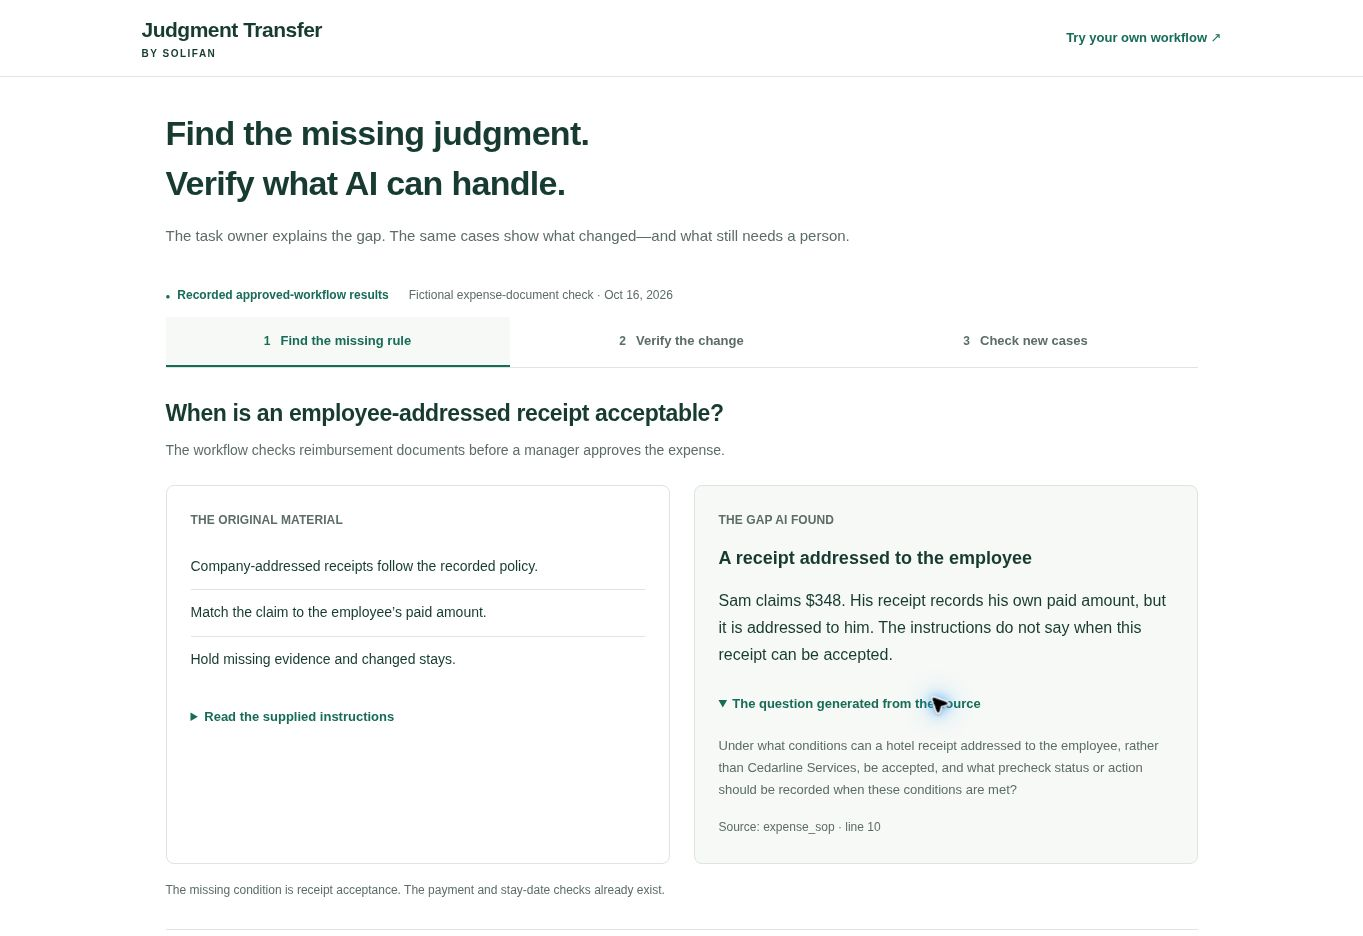
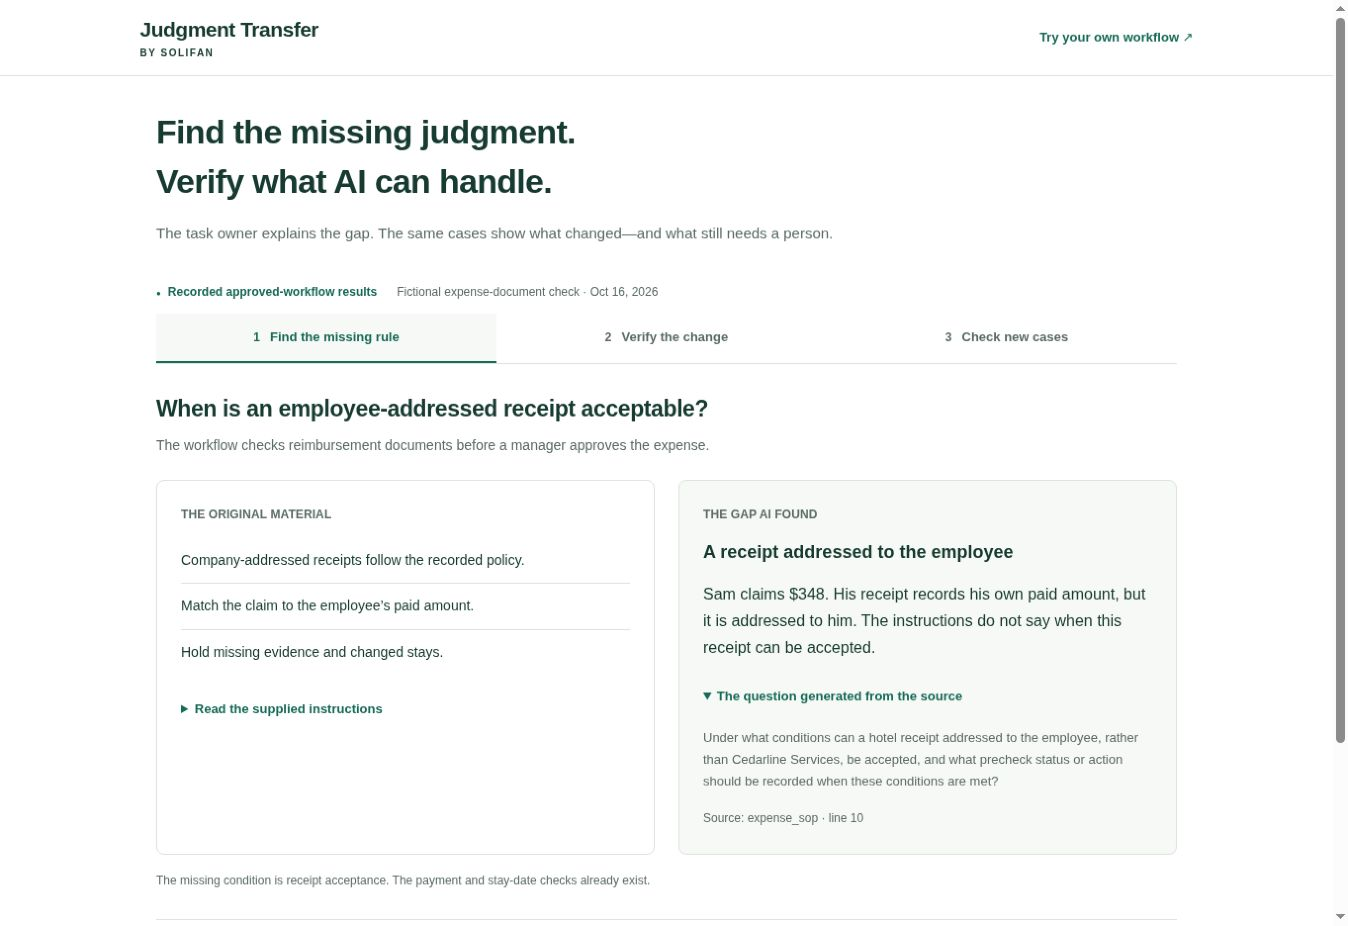
docs: remove cursor artifacts from demo screenshots
Recapture all three recorded-demo screens without mouse pointers or blue highlights. Preserve the source question, amounts, outcomes, handover controls and existing README image paths.

Visually checked each replacement image and verified the uploaded image bytes.

diff --git a/docs/screenshots/README.md b/docs/screenshots/README.md
@@ -8,7 +8,7 @@ Browser captures taken on **17 October 2026 (JST)** from the public Judgment Tra
 | [02-verify-change.jpg](02-verify-change.jpg) | [Step 2 — Verify the change](https://judgment-transfer-unql76xapq-an.a.run.app/assets/demo/index.html#2) | Sam Rivera is selected; the before/after result, $348 claim and payment, matching dates, and business-approval boundary are visible. |
 | [03-new-cases-handover.jpg](03-new-cases-handover.jpg) | [Step 3 — Check new cases](https://judgment-transfer-unql76xapq-an.a.run.app/assets/demo/index.html#3) | Casey’s completion, Jamie’s $424 / $264 / $160 correction, and the handover-checklist save button are visible. |
 
-The screenshots are viewport captures of the displayed interface, with scrolling and disclosure controls used to show the relevant content. Page text, case values and outcomes were not edited. The files are JPEG images totaling less than 300 KB.
+The screenshots are viewport captures of the displayed interface, with scrolling and disclosure controls used to show the relevant content. The images were recaptured without mouse-pointer overlays. Page text, case values and outcomes were not edited. The files are JPEG images totaling less than 300 KB.
 
 The demo displays saved approved-workflow results. Capturing or opening these screens does not call Gemini, rerun cases, approve an expense or execute payment.
 

diff --git a/CHANGELOG.md b/CHANGELOG.md
@@ -1,3 +1,9 @@
+## 2026-10-17 — remove cursor artifacts from demo screenshots
+
+- Category: user-requested documentation correction. Recapture the three images in docs/screenshots without mouse pointers or blue cursor highlights.
+- Preserve the displayed questions, source reference, case amounts, outcomes, approval boundary and handover controls; retain the existing image paths and README captions.
+- Verification: inspect all three replacement images for cursor artifacts and content consistency; verify the published image blobs match the reviewed files.
+
 ## 2026-10-17 — add recorded-demo screenshots
 
 - Category: user-requested documentation addition. Add three real browser captures to docs/screenshots and a Screenshots section near the top of README.
